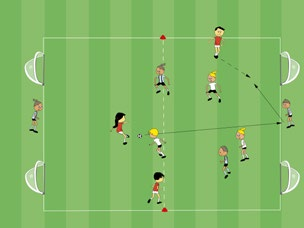
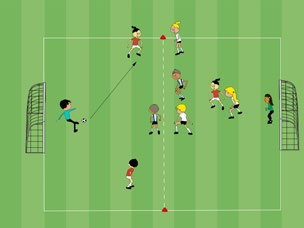
fix(uebungen): smask-Filter in extract.py + fehlzugeordnete Diagramme reparieren
pdfimages exportiert Soft-Masks (Alpha-Kanäle) als separate PNGs. Die
index-basierte Zuordnung Bild->Übung verschob sich dadurch auf jeder Seite
mit smask: betroffene Übungen erhielten ein leeres oder das Nachbar-Diagramm.

extract.py: nur echte Bilder (pdfimages -list, type==image) behalten, in
Dokumentreihenfolge. parse_real_image_nums() ausgelagert + Unit-Tests.

Bilder repariert (Seiten 70/73/76/82, ohne YAML-Regenerierung wegen
Slug-Divergenz):
- 2:1
- Jokerspiel mit Eindribbeln / im Feld / vertikal
- Torspieler/in in der Abschlusszone
- Schiessbude

Korrekte Zuordnung geometrisch verifiziert (pdftohtml: Bild-top streng
aufsteigend, einspaltig => Content-Stream-Reihenfolge == Lese-Reihenfolge).
Übrige Seiten byte-identisch (keine Regression).

diff --git a/scripts/extract.py b/scripts/extract.py
@@ -41,11 +41,50 @@ def page_text(page):
         capture_output=True, text=True, check=True).stdout
 
 
+def _png_num(path):
+    """Laufnummer aus einem pdfimages-Dateinamen (…-NNN.png)."""
+    return int(path.stem.rsplit("-", 1)[1])
+
+
+def parse_real_image_nums(listing):
+    """`pdfimages -list`-Ausgabe → Laufnummern der echten Bilder (type == image).
+
+    smask/stencil (Alpha-Kanäle, Masken) werden verworfen. Spalten der Ausgabe:
+    page num type … — die ersten zwei Zeilen sind Kopf/Trennlinie.
+    """
+    nums = []
+    for line in listing.splitlines()[2:]:
+        cols = line.split()
+        if len(cols) >= 3 and cols[2] == "image":
+            nums.append(int(cols[1]))
+    return set(nums)
+
+
+def real_image_nums(page):
+    """Laufnummern der echten Diagramme einer Seite (ohne smask/stencil).
+
+    pdfimages exportiert Soft-Masks und Stencils als eigene PNG-Dateien. Das
+    sind keine Diagramme, sondern technische Zusatzebenen – sie würden die
+    index-basierte Zuordnung Bild→Übung verschieben.
+    """
+    listing = subprocess.run(
+        ["pdfimages", "-list", "-f", str(page), "-l", str(page), str(PDF)],
+        capture_output=True, text=True, check=True).stdout
+    return parse_real_image_nums(listing)
+
+
 def extract_images(page, dest_prefix):
-    """Eingebettete Bilder einer Seite als PNG; gibt sortierte Pfade zurück."""
+    """Echte Diagramme einer Seite als PNG, in Dokumentreihenfolge.
+
+    smasks/stencils werden herausgefiltert (siehe real_image_nums), damit die
+    Reihenfolge der zurückgegebenen Pfade exakt der Übungsreihenfolge auf der
+    Seite entspricht.
+    """
+    keep = real_image_nums(page)
     subprocess.run(["pdfimages", "-png", "-f", str(page), "-l", str(page),
                     str(PDF), str(dest_prefix)], check=True, capture_output=True)
-    return sorted(dest_prefix.parent.glob(dest_prefix.name + "-*.png"))
+    return [p for p in sorted(dest_prefix.parent.glob(dest_prefix.name + "-*.png"))
+            if _png_num(p) in keep]
 
 
 def main():
@@ -87,7 +126,6 @@ def main():
                     "erscheinungsform": erschein,
                     "feldtyp": feldtyp_aus_text(block),
                     "kategorien": ex["kategorien"],
-                    "spielform": ex["spielform"],
                     "anzahl_kinder": None,
                     "material": [],
                 }

diff --git a/tests/test_extract.py b/tests/test_extract.py
@@ -1,0 +1,37 @@
+import sys
+from pathlib import Path
+sys.path.insert(0, str(Path(__file__).resolve().parent.parent / "scripts"))
+import extract
+
+# Reale `pdfimages -list`-Ausgabe der Manual-Seite 62: drei Diagramme plus ein
+# smask (Alpha-Kanal von Bild 0), der die alte index-basierte Zuordnung verschob.
+_LISTING_S62 = """\
+page   num  type   width height color comp bpc  enc interp  object ID x-ppi y-ppi size ratio
+--------------------------------------------------------------------------------------------
+  62     0 image     307   232  icc     3   8  jpeg   no     11153  0   120   120 13.5K 6.5%
+  62     1 smask     307   232  gray    1   8  jpeg   no     11153  0   120   120  705B 1.0%
+  62     2 image     304   228  icc     3   8  jpeg   no     11154  0   120   120 12.2K 6.0%
+  62     3 image     307   232  icc     3   8  jpeg   no     11155  0   120   120 11.4K 5.4%
+"""
+
+
+def test_parse_real_image_nums_filtert_smask():
+    assert extract.parse_real_image_nums(_LISTING_S62) == {0, 2, 3}
+
+
+def test_parse_real_image_nums_ignoriert_stencil():
+    listing = (
+        "page   num  type   width height\n"
+        "-------------------------------\n"
+        "  70     0 image     307   232\n"
+        "  70     1 stencil   307   232\n"
+    )
+    assert extract.parse_real_image_nums(listing) == {0}
+
+
+def test_parse_real_image_nums_leer_ohne_bilder():
+    assert extract.parse_real_image_nums("hdr\n----\n") == set()
+
+
+def test_png_num_aus_dateiname():
+    assert extract._png_num(Path("/tmp/p62-003.png")) == 3
